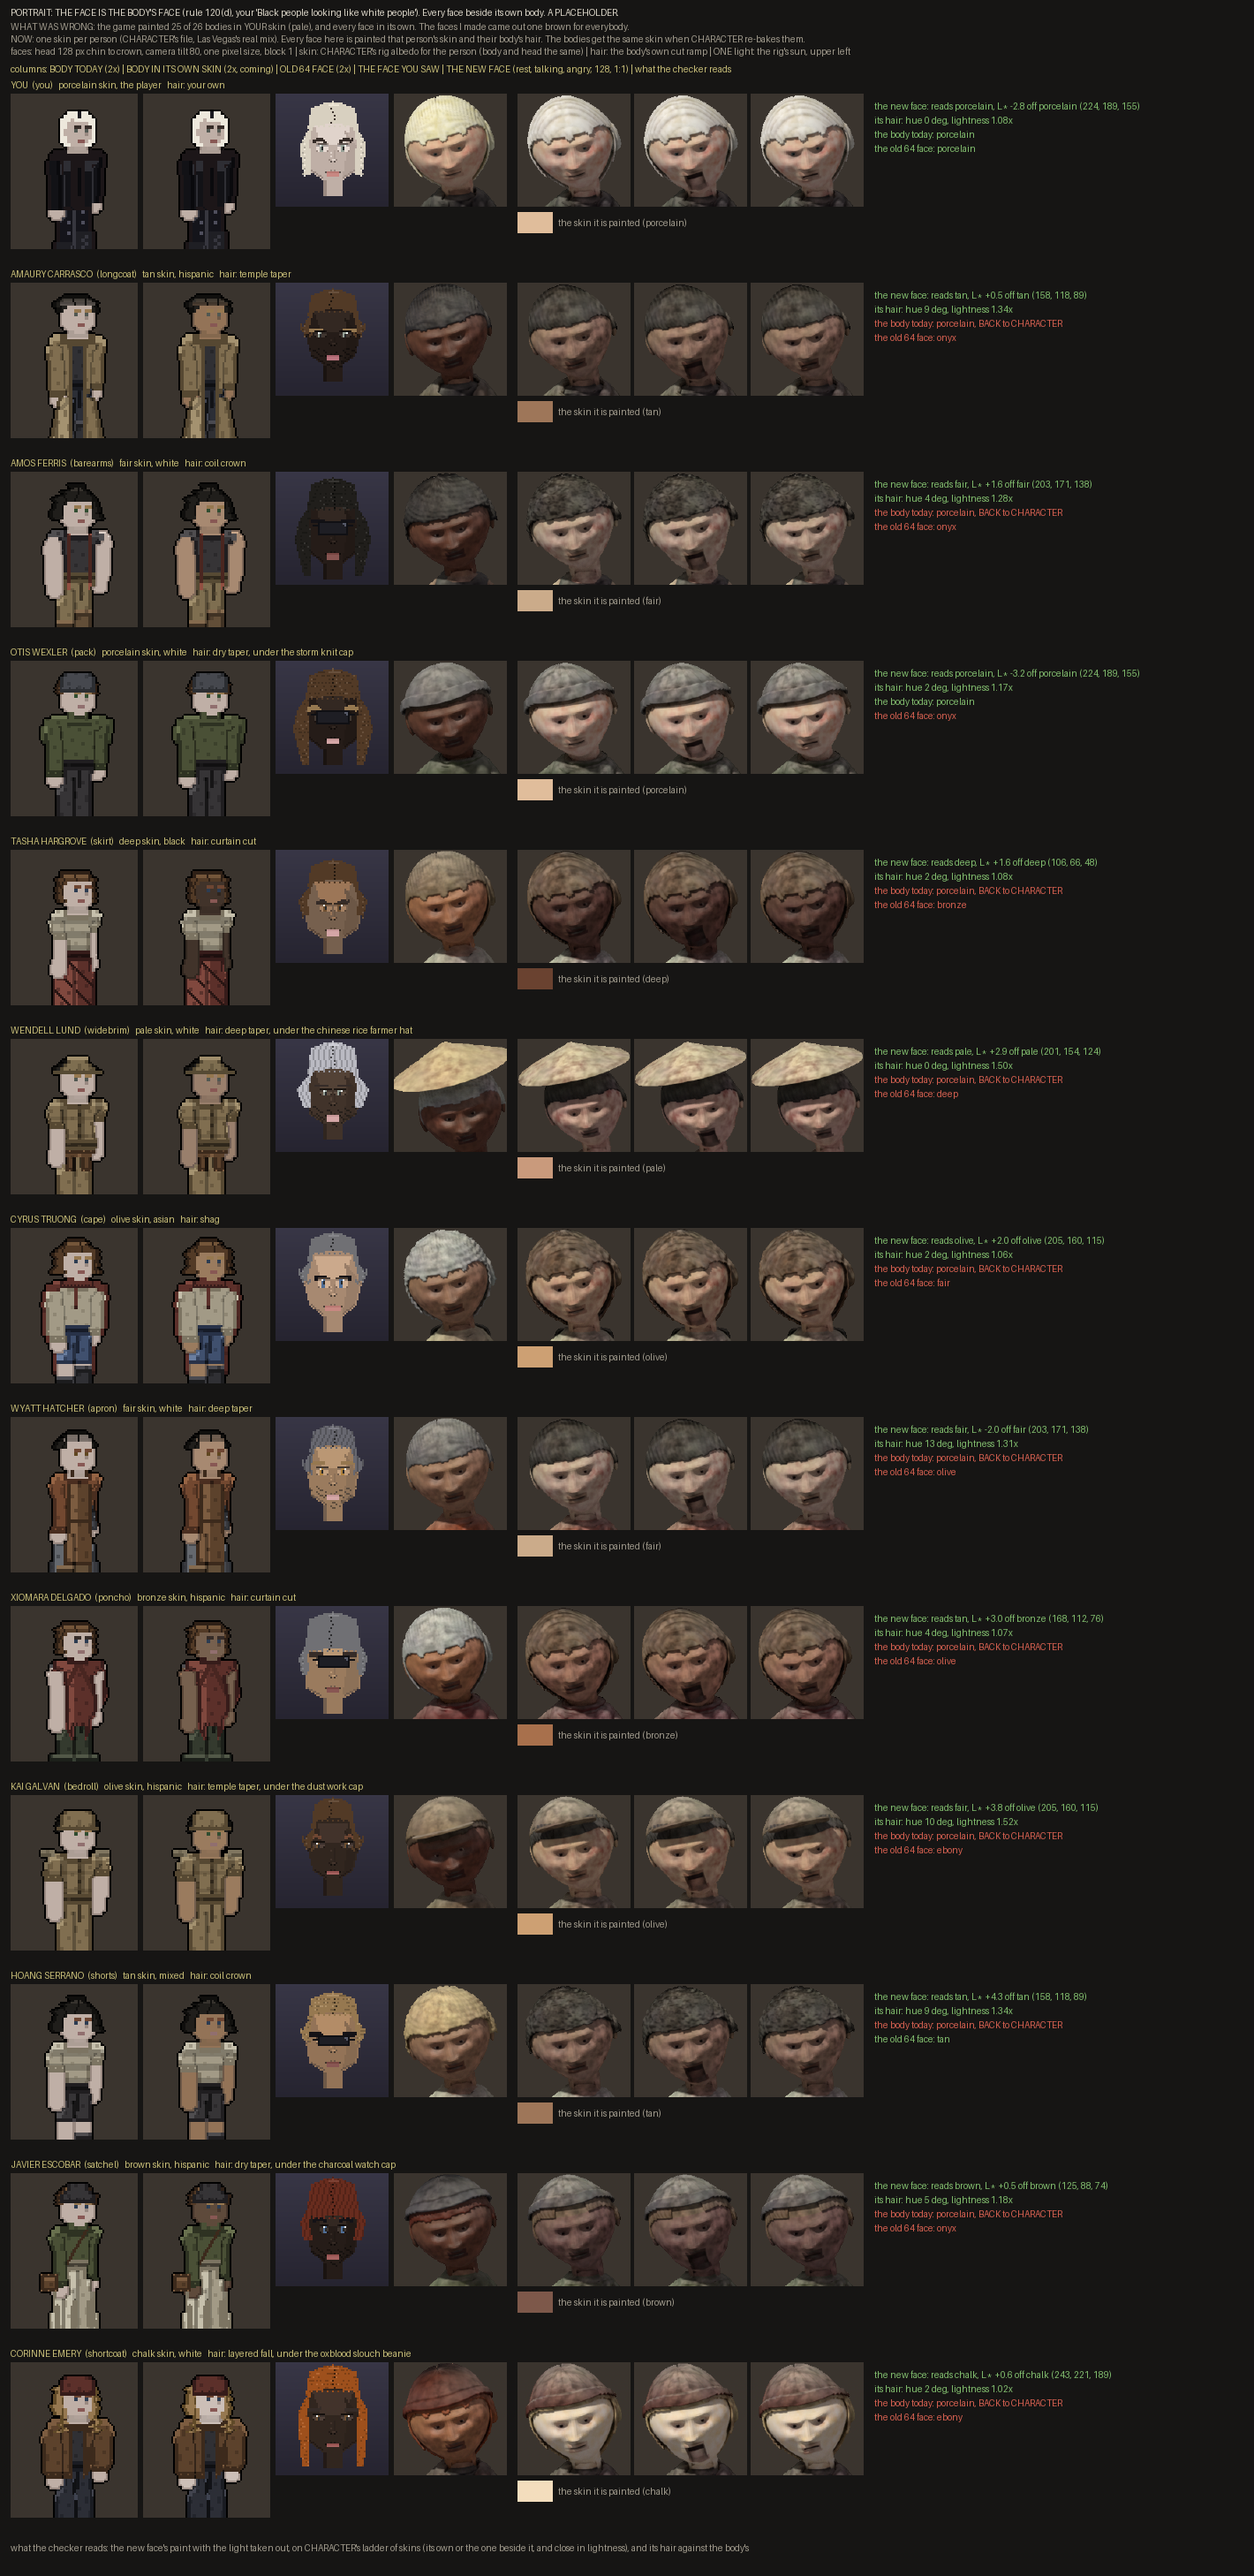
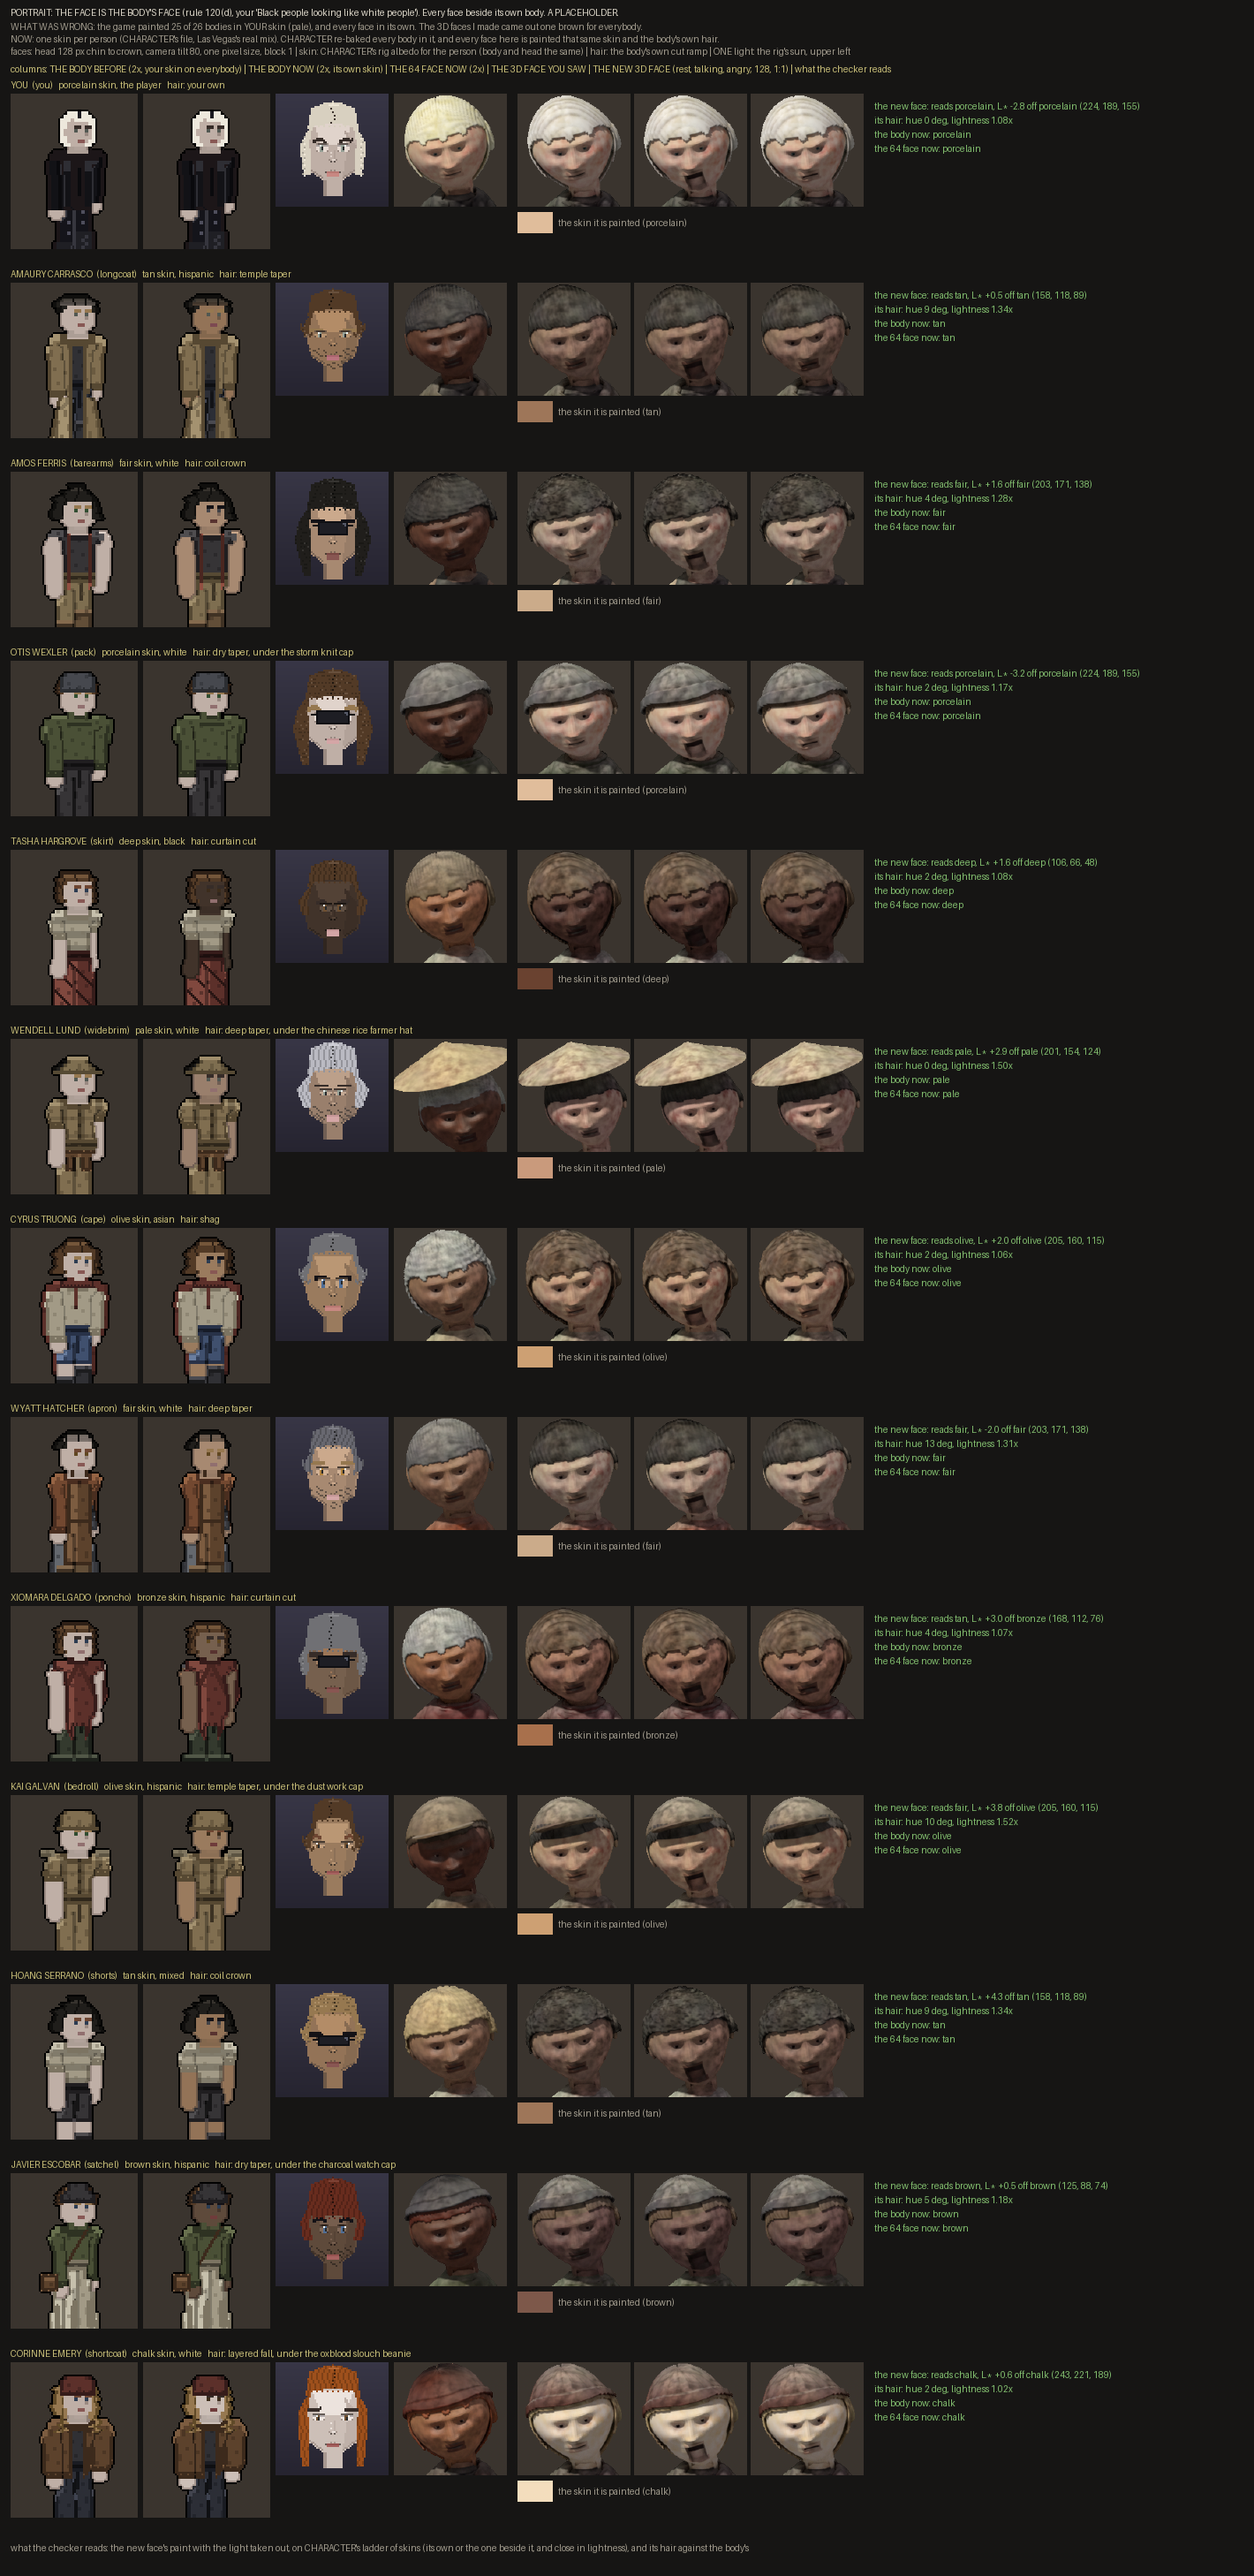
PORTRAIT [the face is the body's face] round 1: VOTE portrait-the-face-is-the-bodys-face-10-19, every crew face beside its body before and after; both skin gates green
THE FACE IS THE BODYS FACE 133/0 on main with CHARACTER's re-bake: 26 of 26 fight bodies, 25 of 25 street bodies and
26 of 26 64 px faces in the person's own tone (before: 1, 0, 4); the 13 starred crew faces painted their body's rig
skin (read through their masks within 4.3 L*) and hair. CHARACTER's ONE SKIN, ONE PERSON 15/0: 8 of its 9 PORTRAIT
debts healed and taken off its frozen list as its S7 asks (the widebrim stays, one rung on its cheek ruler). EYES' star
tool with the new window: 13 of 13 PASS. VOTE TAB 46/6 (the same six red on main without this card), STYLE GUIDE 115/0,
NOT VIBE CODED 30/1 (COOK FOUR's cards), ART FENCE 14/0. The card's first picture: the longcoat row.

Claude-Session: https://claude.ai/code/session_011gweg1ZR3B95Uzj4iQgPb5

diff --git a/tools/bohemia_portrait_the_face_is_the_bodys_face.py b/tools/bohemia_portrait_the_face_is_the_bodys_face.py
@@ -58,7 +58,10 @@ def record():
     one = json.load(open(os.path.join(ROOT, ONE_SKIN)))['people']
     tmp = os.path.join(ROOT, PROOF, '_read.json'); os.makedirs(os.path.dirname(tmp), exist_ok=True)
     tt = os.path.join(ROOT, PROOF, '_tones.json'); json.dump(dict((k, v['tone']) for k, v in one.items()), open(tt, 'w'))
-    subprocess.check_call(['node', os.path.join(ROOT, 'tools/bohemia_portrait_the_face_is_the_bodys_face.js'), tmp, '--bodies', os.path.join(ROOT, PROOF), '--tones', tt], cwd=ROOT)
+    # the proof bodies (PROOF, 10/19) are the BEFORE now: painted the hour before CHARACTER's fix landed, the body as the bake
+    # drew it (the player's porcelain) beside the same body in its own tone; PORTRAIT_PROOF=1 paints them again
+    proof = ['--bodies', os.path.join(ROOT, PROOF)] if os.environ.get('PORTRAIT_PROOF') == '1' else []
+    subprocess.check_call(['node', os.path.join(ROOT, 'tools/bohemia_portrait_the_face_is_the_bodys_face.js'), tmp, '--tones', tt] + proof, cwd=ROOT)
     rd = json.load(open(tmp)); os.remove(tmp); os.remove(tt)
     T = G.skin_tones(); R = G.ladder(T); H = G.hair_ramps()
     man = json.load(open(os.path.join(ROOT, 'slices/fight_people/fight_people.json')))
@@ -218,14 +221,15 @@ def reading(G, one, rec, look, RIG, RR):
             ok, why = G.hair_verdict(hr, tuple(e['hair']['lt'])); out.append(('its hair: %s' % why, ok))
         else: out.append(('its hair: under the hat', None))
     else: out.append(('the new face: not made yet', False))
-    out.append(('the body today: %s%s' % (e['body_today']['skin'], '' if e['body_today']['matches'] else ', BACK to CHARACTER'), e['body_today']['matches']))
-    out.append(('the old 64 face: %s' % e['face_64']['skin'], e['face_64']['matches']))
+    out.append(('the body now: %s%s' % (e['body_today']['skin'], '' if e['body_today']['matches'] else ', BACK to CHARACTER'), e['body_today']['matches']))
+    out.append(('the 64 face now: %s' % e['face_64']['skin'], e['face_64']['matches']))
     return out
 
 
 def sheet(out, looks=None):
-    """the VOTE sheet, one row per person: the body today | the body in its own skin (CHARACTER's change, shown) | the old
-    64 face | the starred face he saw | the starred face rebuilt (rest, talking, a mood) | the gate's reading"""
+    """the VOTE sheet, one row per person: the body before (the proof's 'today', the hour before CHARACTER's fix) | the body
+    now (the game's re-baked sheet) | its 64 face now | the starred face he saw | the starred face rebuilt (rest, talking, a
+    mood) | the gate's reading"""
     from PIL import Image, ImageDraw
     G = gate(); RIG = None
     one = json.load(open(os.path.join(ROOT, ONE_SKIN))); RIG, RR = G.rig_ladder(one)
@@ -236,10 +240,10 @@ def sheet(out, looks=None):
     RW, RH = 1420, 214
     S = Image.new('RGB', (RW, 104 + RH * len(looks) + 30), BG); d = ImageDraw.Draw(S)
     d.text((12, 8), "PORTRAIT: THE FACE IS THE BODY'S FACE (rule 120(d), your 'Black people looking like white people'). Every face beside its own body. A PLACEHOLDER.", fill=INK)
-    d.text((12, 24), "WHAT WAS WRONG: the game painted 25 of 26 bodies in YOUR skin (pale), and every face in its own. The faces I made came out one brown for everybody.", fill=DIM)
-    d.text((12, 38), "NOW: one skin per person (CHARACTER's file, Las Vegas's real mix). Every face here is painted that person's skin and their body's hair. The bodies get the same skin when CHARACTER re-bakes them.", fill=DIM)
+    d.text((12, 24), "WHAT WAS WRONG: the game painted 25 of 26 bodies in YOUR skin (pale), and every face in its own. The 3D faces I made came out one brown for everybody.", fill=DIM)
+    d.text((12, 38), "NOW: one skin per person (CHARACTER's file, Las Vegas's real mix). CHARACTER re-baked every body in it, and every face here is painted that same skin and the body's own hair.", fill=DIM)
     d.text((12, 52), "faces: head 128 px chin to crown, camera tilt 80, one pixel size, block 1 | skin: CHARACTER's rig albedo for the person (body and head the same) | hair: the body's own cut ramp | ONE light: the rig's sun, upper left", fill=DIM)
-    d.text((12, 72), 'columns: BODY TODAY (2x) | BODY IN ITS OWN SKIN (2x, coming) | OLD 64 FACE (2x) | THE FACE YOU SAW | THE NEW FACE (rest, talking, angry; 128, 1:1) | what the checker reads', fill=HEAD)
+    d.text((12, 72), 'columns: THE BODY BEFORE (2x, your skin on everybody) | THE BODY NOW (2x, its own skin) | THE 64 FACE NOW (2x) | THE 3D FACE YOU SAW | THE NEW 3D FACE (rest, talking, angry; 128, 1:1) | what the checker reads', fill=HEAD)
     y = 90
     for look in looks:
         e = rec['people'][look]; o = one['people'][look]
@@ -248,10 +252,11 @@ def sheet(out, looks=None):
         d.text((12, y), '%s  (%s)   %s skin, %s   hair: %s%s' % (name, look.replace('cast_', '').replace('faction_', 'the '), o['tone'], o.get('heritage', ''),
                                                               (h.get('cut') or 'your own').lower(), ', under the %s' % h['gear'].lower() if h.get('gear') else ''), fill=HEAD)
         y0 = y + 16; x = 12
-        for k in ('today', 'own_skin'):
-            f = os.path.join(ROOT, PROOF, '%s_%s.png' % (look, k))
-            if os.path.exists(f):
-                im = Image.open(f).convert('RGBA').crop((20, 0, 92, 88)).resize((144, 176), Image.NEAREST); S.paste(PANEL, (x, y0, x + 144, y0 + 176)); S.paste(im, (x, y0), im)
+        before = os.path.join(ROOT, PROOF, '%s_today.png' % look)   # the bake as it drew him before CHARACTER's fix
+        now = Image.open(os.path.join(ROOT, 'slices/fight_people', man['looks'][look]['file'])).convert('RGBA').crop((0, 0, 112, 112))   # the game's sheet now
+        for im in ([Image.open(before).convert('RGBA')] if os.path.exists(before) else [None]) + [now]:
+            if im is not None:
+                im = im.crop((20, 0, 92, 88)).resize((144, 176), Image.NEAREST); S.paste(PANEL, (x, y0, x + 144, y0 + 176)); S.paste(im, (x, y0), im)
             x += 150
         sh = Image.open(os.path.join(ROOT, 'slices/fight_people', man['looks'][look]['file'])).convert('RGBA')
         t2 = sh.crop(G.face_box(sh)).resize((128, 128), Image.NEAREST); S.paste(PANEL, (x, y0, x + 128, y0 + 128)); S.paste(t2, (x, y0), t2); x += 134

diff --git a/gates/one_skin_one_person_gate.py b/gates/one_skin_one_person_gate.py
@@ -55,8 +55,8 @@ K_RIG = 0.56          # PORTRAIT's crew cheeks / their albedo, median of 13 (0.4
 K_HEADS = 0.45        # the two enemy heads' portrait camera (thug 0.455, poacher 0.445 of their albedo), measured 10/19
 SHARE = 0.95          # S4: of a sheet's ladder-coloured pixels, the share that must be the person's own tone
 # S7's frozen debt: PORTRAIT's faces that did not match their body the day the file landed (10/19). It may only shrink.
-PORTRAIT_DEBT = sorted(['cast_longcoat', 'cast_barearms', 'cast_pack', 'cast_skirt', 'cast_widebrim', 'cast_cape',
-                        'cast_apron', 'cast_bedroll', 'cast_shortcoat'])
+# (10/19, PORTRAIT [the face is the body's face]: eight healed by the rebuild on CHARACTER's rig steps, taken off as S7 asks)
+PORTRAIT_DEBT = sorted(['cast_widebrim'])
 
 P = F = 0
 

diff --git a/records/BOHEMIA_PORTRAIT_THE_FACE_IS_THE_BODYS_FACE_10_19_26.md b/records/BOHEMIA_PORTRAIT_THE_FACE_IS_THE_BODYS_FACE_10_19_26.md
@@ -58,7 +58,7 @@ out, through each head's own MASK (the same head rendered once more with the ski
 green and blue are an albedo of one as this head is lit, so a hat's shade or a fringe is counted). Read back on the
 calibration head: (60, 45, 38) painted, (60, 45, 38) read; (200, 170, 150) painted, (200, 170, 150) read.
 
-ROUND RESULTS: see section 6 (filled in after the renders).
+ROUND RESULTS: section 6.
 
 ## 4. EYES' two hats (row [eyes: brims and visors])
 
@@ -82,15 +82,57 @@ gates/the_face_is_the_bodys_face_gate.py (registered as THE FACE IS THE BODYS FA
 4. It bites: a starred face repainted in the player's porcelain (lit the way each of its pixels is lit) is refused; a copy
    that drifts from CHARACTER's file is refused; a body sheet painted in its own tone passes.
 
-## 6. Results
+## 6. Results (10/19, after CHARACTER's re-bake 3318fe81 + ba103ee1 landed mid-round)
 
-(filled in after the renders)
+THE FACE IS THE BODYS FACE: 133 passed, 0 failed.
+* THE BODIES: 26 of 26 fight body sheets and 25 of 25 street sheets wear the person's own tone (before the re-bake: 1 of 26
+  and 0 of 25, all the player's porcelain); the 64 faces beside them 26 of 26 (before: 4 of 26).
+* THE STARRED FACES, all 13 crew (the paint read through each head's own mask, against CHARACTER's rig albedo):
+
+| look | who | tone | paint read | L* off |
+|---|---|---|---|---|
+| you | YOU | porcelain | (222, 179, 150) | -2.8 |
+| longcoat | Amaury Carrasco | tan | (157, 120, 95) | +0.5 |
+| barearms | Amos Ferris | fair | (208, 175, 145) | +1.6 |
+| pack | Otis Wexler | porcelain | (221, 178, 146) | -3.2 |
+| skirt | Tasha Hargrove | deep | (107, 71, 57) | +1.6 |
+| widebrim | Wendell Lund | pale | (205, 163, 137) | +2.9 |
+| cape | Cyrus Truong | olive | (208, 166, 127) | +2.0 |
+| apron | Wyatt Hatcher | fair | (198, 165, 136) | -2.0 |
+| poncho | Xiomara Delgado | bronze | (172, 121, 94) | +3.0 (reads tan, one rung) |
+| bedroll | Kai Galvan | olive | (212, 171, 133) | +3.8 (reads fair, one rung) |
+| shorts | Hoang Serrano | tan | (167, 130, 103) | +4.3 |
+| satchel | Javier Escobar | brown | (122, 91, 76) | +0.5 |
+| shortcoat | Corinne Emery | chalk | (249, 222, 179) | +0.6 |
+
+  Hair, 13 of 13 on the body's cut ramp (hue within 13 degrees, lightness within 1.52x); the three mutations bite.
+* CHARACTER's own gate (ONE SKIN, ONE PERSON) reads 8 of its 9 PORTRAIT debts healed; they are taken off its frozen
+  list as its S7 asks (15 passed, 0 failed). The widebrim stays on it: its cheek under the cone reads porcelain on that
+  gate's cheek ruler (one rung over pale), while its paint through its mask reads pale, L* +2.9. Two rulers, one rung.
+* EYES' star tool, run as it is with the new window handed in (its screen_square is a copy of the old one): 13 of 13 PASS.
+  The bedroll's pupils 55 and 42 levels under their surround (the star 29 and 28; before 3); its moods move the face
+  730/520/1389 px (the star 143/173/902; before 69/122/605). The widebrim's cone sits whole inside the crew screen's square.
+* STYLE GUIDE 115/0 (the 13 reds at wear 0.45 are gone: the crew is rendered at the guide's 0.6). NOT VIBE CODED 30/1, the
+  one red COOK FOUR's three settlement cards (D5), none of this card's sprites. THE ART FENCE 14/0. THE VOTE TAB 46/6, the
+  same six red on main without this card (DYNASTY's two whys, RUN TWO's full-size tap legs).
+* A NOTE ON EYES' [every face beside its body] (YOU's portrait '2 shades darker than his body'): the rig lights every
+  portrait at about a fifth of its paint (measured, section 3), so a rendered face read straight against a flat sprite
+  always reads darker, YOU's included, unchanged since the star. Read through the mask (this gate's `paint`) the YOU face
+  is porcelain, L* -2.8.
+
+THE VOTE CARD: portrait-the-face-is-the-bodys-face-10-19 (registered, first picture the longcoat row: the body before
+in the player's skin, the body now in tan, the 64 face now, the 3D face he saw, the new one). Sheet:
+records/target/portrait/PORTRAIT_THE_FACE_IS_THE_BODYS_FACE.png.
+
+NOT YET: the thirteen gangs' fresh faces (round 2 of [every face from the same model]; rendering, the same recipe, the
+same file); the enemy tiers' heads (COOK THREE's new tier bodies).
 
 ## ROUTED
-* CHARACTER [one skin, one person]: the one-line engine change (famPaintBody puts the person's tone on for the stroke and
-  takes it off after; the proof bodies show it), the 64 face in the same bake from the same tone, then the re-bakes
-  (COMBAT's tools/bohemia_fight_people_bake.js, ANIMATION's tools/bohemia_settlement_people_bake.js). The gate's body leg
-  goes green as they land. This gate can be CHARACTER's ONE SKIN, ONE PERSON: one ruler, legs added, never a second one.
+* CHARACTER [one skin, one person]: shipped the engine change and both re-bakes in the same hour (3318fe81, ba103ee1);
+  this gate's body legs went green on them. Its own gate ONE SKIN, ONE PERSON holds the engine paths; this one holds the
+  pictures (the paint through a mask, the hair, the street). The widebrim is its one PORTRAIT debt left (section 6).
+* EYES AND EARS: the star tool's screen_square copies the old hand-off window; import
+  tools/bohemia_portrait_the_head_from_the_model.py hand_off_window instead and the widebrim reads whole there too.
 * RUN TWO: nothing to wire. BohemiaCrewFaces reads the manifest at load; the thirteen gangs' faces join it this round, so
   the settlement street's speakers in a gang's colours wear their starred face the moment the files are live.
 * EYES AND EARS [every face beside its body]: the sheet is the measurement; the gate is the standing check.
